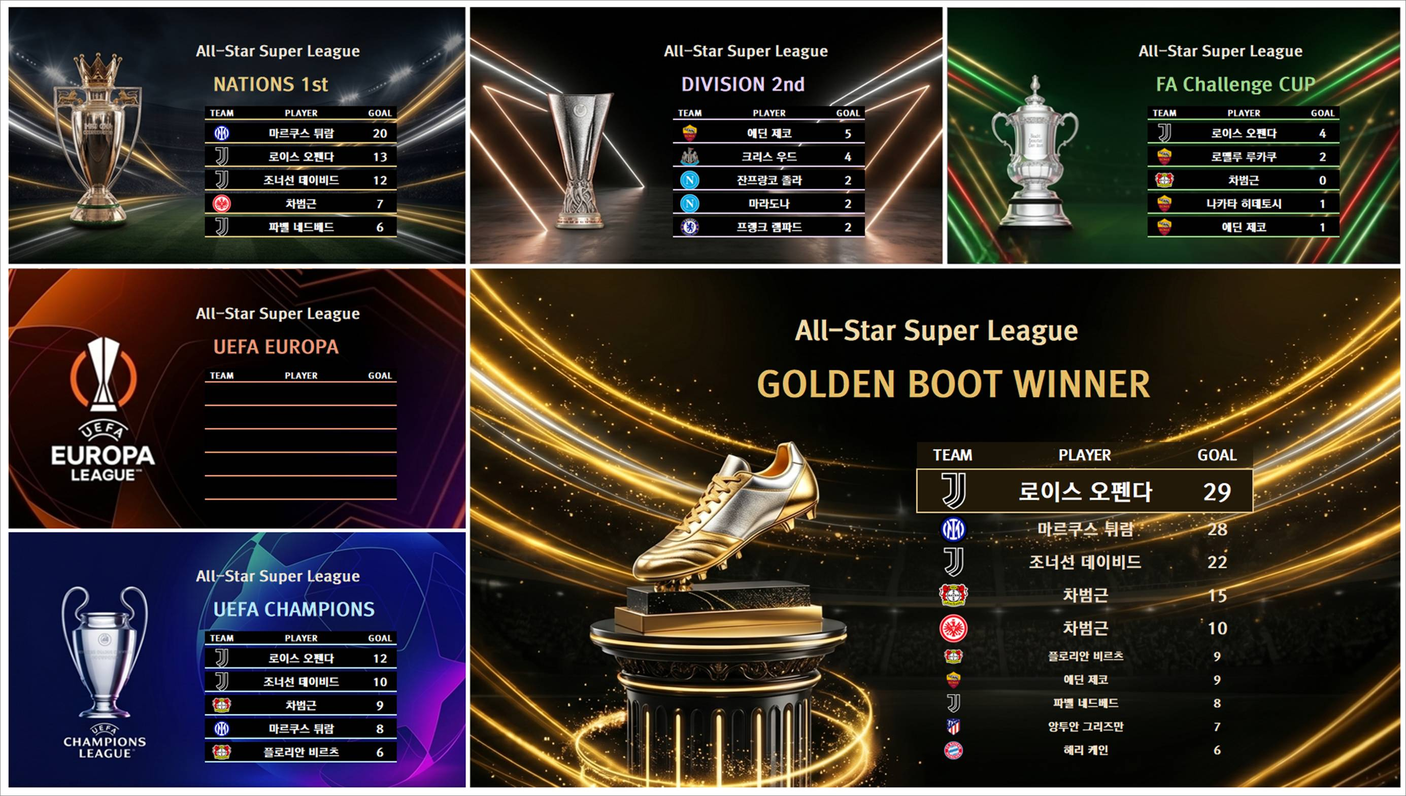
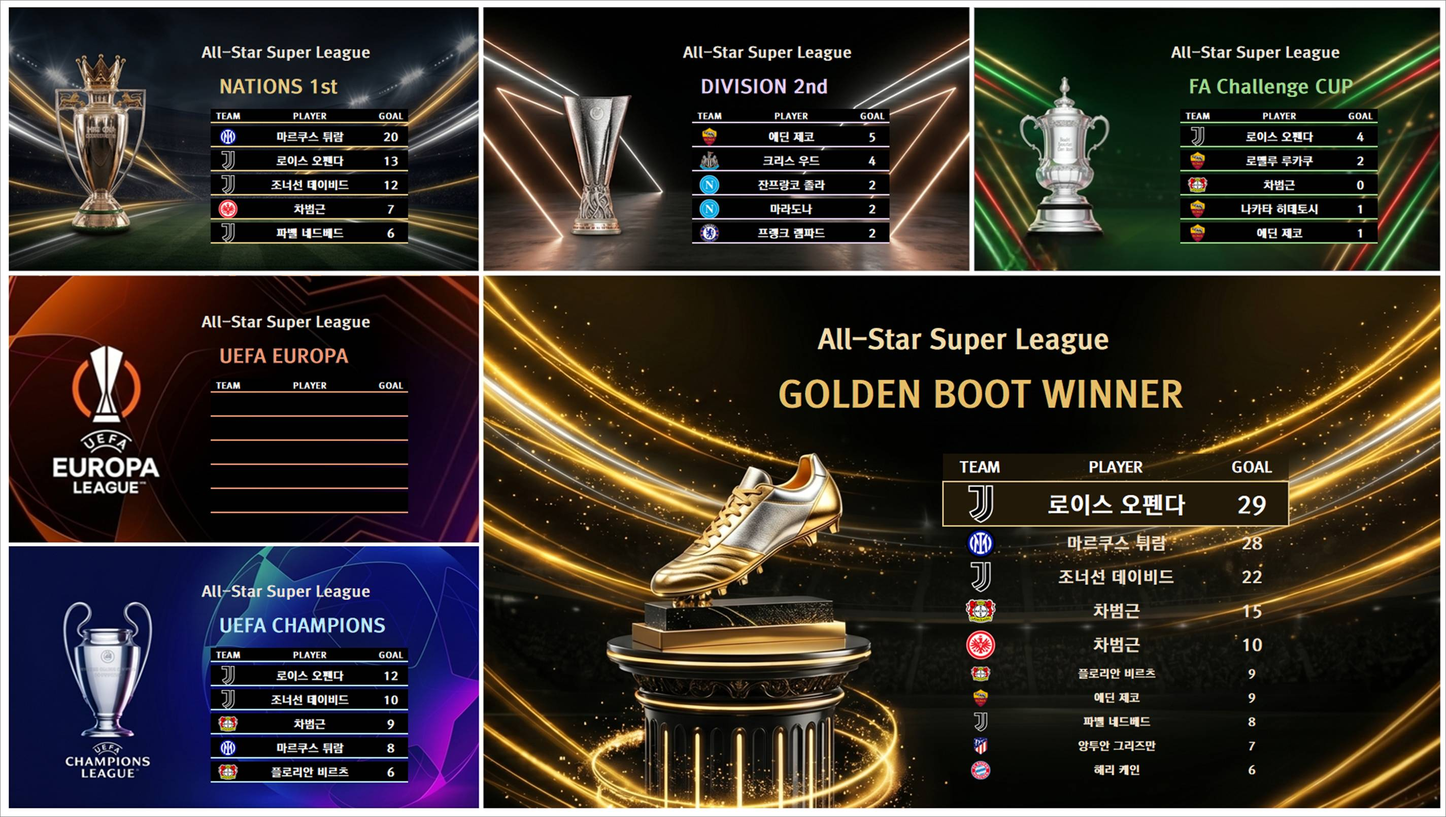
Optimize: 15:46:50

diff --git a/index.html b/index.html
@@ -67,13 +67,13 @@
     </div>
     
     <div class="container">
-        <div class="card"><h2>🥇 1부 리그 순위표</h2><img src="https://i.ibb.co/C3v0HRJj/498a02164f70.jpg" alt="1부 리그"></div>
-        <div class="card"><h2>🥈 2부 리그 순위표</h2><img src="https://i.ibb.co/qFJNwjjF/f6acd640c64a.jpg" alt="2부 리그"></div>
+        <div class="card"><h2>🥇 1부 리그 순위표</h2><img src="https://i.ibb.co/v6X3M1sC/2a2b1b8faca1.jpg" alt="1부 리그"></div>
+        <div class="card"><h2>🥈 2부 리그 순위표</h2><img src="https://i.ibb.co/7d1m67GQ/751eee42bcc8.jpg" alt="2부 리그"></div>
         <div class="card"><h2>🌟 UCL 그룹스테이지</h2><img src="https://i.ibb.co/VbfG4FV/258c27092a21.jpg" alt="UCL 조별"></div>
         <div class="card"><h2>🏆 UCL 토너먼트 대진표</h2><img src="https://i.ibb.co/n8s5BRyL/b9a11dda8ecb.jpg" alt="UCL 토너"></div>
         <div class="card"><h2>🎖 UEL 토너먼트 대진표</h2><img src="https://i.ibb.co/zHC97Nxq/a2267226ccb8.jpg" alt="UEL 토너"></div>
         <div class="card"><h2>🏅 FA컵 토너먼트 대진표</h2><img src="https://i.ibb.co/Pzx0f23h/364f4b4b809c.jpg" alt="FA컵"></div>
-        <div class="card"><h2>👑 GOLDEN BOOT (통합 득점왕)</h2><img src="https://i.ibb.co/qYkpfpR0/923f87b2d996.jpg" alt="득점왕"></div>
+        <div class="card"><h2>👑 GOLDEN BOOT (통합 득점왕)</h2><img src="https://i.ibb.co/MDL5cFGx/6728a671be48.jpg" alt="득점왕"></div>
     </div>
     
     <footer>
